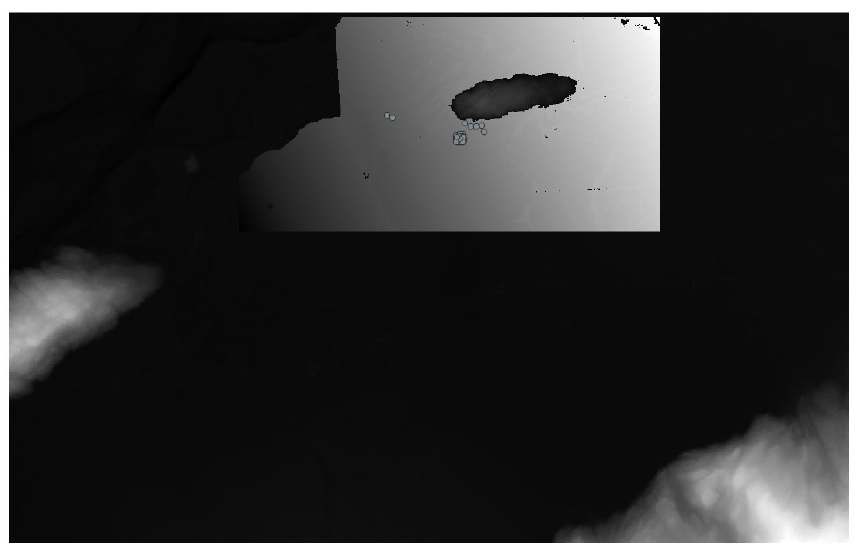
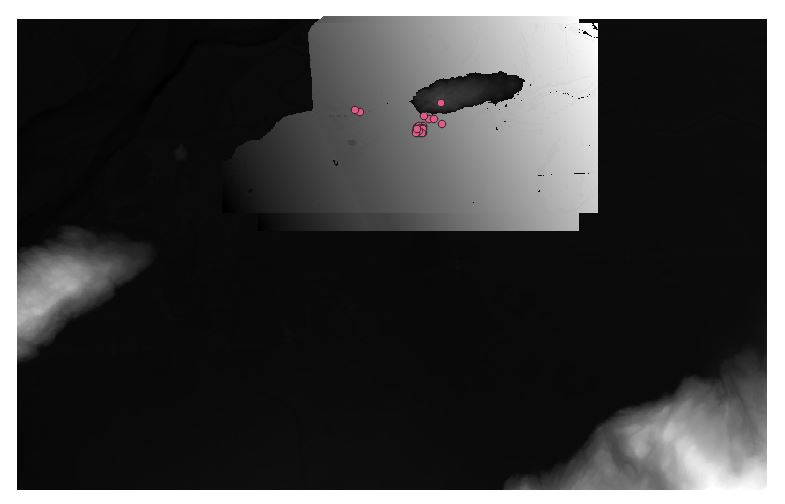
2022-08-05
Changed Report Automator to Section 5.3.5, since BCA is already Section 5.3.4. Also changed one line in 06_tutorial.rst to add added detail. Changed 3 images to better reflect the current version of CanFlood and clarity

diff --git a/docs/source/06_tutorials.rst b/docs/source/06_tutorials.rst
@@ -218,7 +218,7 @@ On the same ‘Inventory’ tab **click ‘Select From Library’** to launch th
 
 .. image:: /_static/tutorials_6_2_2_img_2.jpg
 
-Close the ‘vFunc Selection’ GUI, and you should now see the new .xls file path entered under ‘Vulnerability Functions’. This library contains 126 functions, far more than the 4 referenced in our inventory. To removed the unreferenced curves from the set, **click 'Purge Functions'**. You should see a new vulnerability function set created. Finally, **click ‘Update Control File’** to store a reference to this into the control file.
+Close the ‘vFunc Library’ GUI, and you should now see the new .xls file path entered under ‘Vulnerability Functions’. This library contains 126 functions, far more than the 4 referenced in our inventory. To removed the unreferenced curves from the set, **click 'Purge Functions'**. You should see a new vulnerability function set created called 'cLib'. Finally, **click ‘Update Control File’** to store a reference to this into the control file.
 
 **Hazard Sampler**
 

diff --git a/docs/source/05_toolsets.rst b/docs/source/05_toolsets.rst
@@ -721,7 +721,7 @@ After populating the ‘data’ and ‘smry’ tabs, the workbook should display
 
 This tool generates a financial time-series plot of the benefit and cost data contained in the BCA worksheet.
 
-5.3.4. Report Automator
+5.3.5. Report Automator
 ============================
 
 This tab provides a simple tool for generating a pdf report of your model. A video of this tool is provided `here <https://www.youtube.com/watch?v=7E9hAkirsa8>`_. The number of pages generated will depend on your model and the options selected on preceding tabs of the dialog but generally includes:
